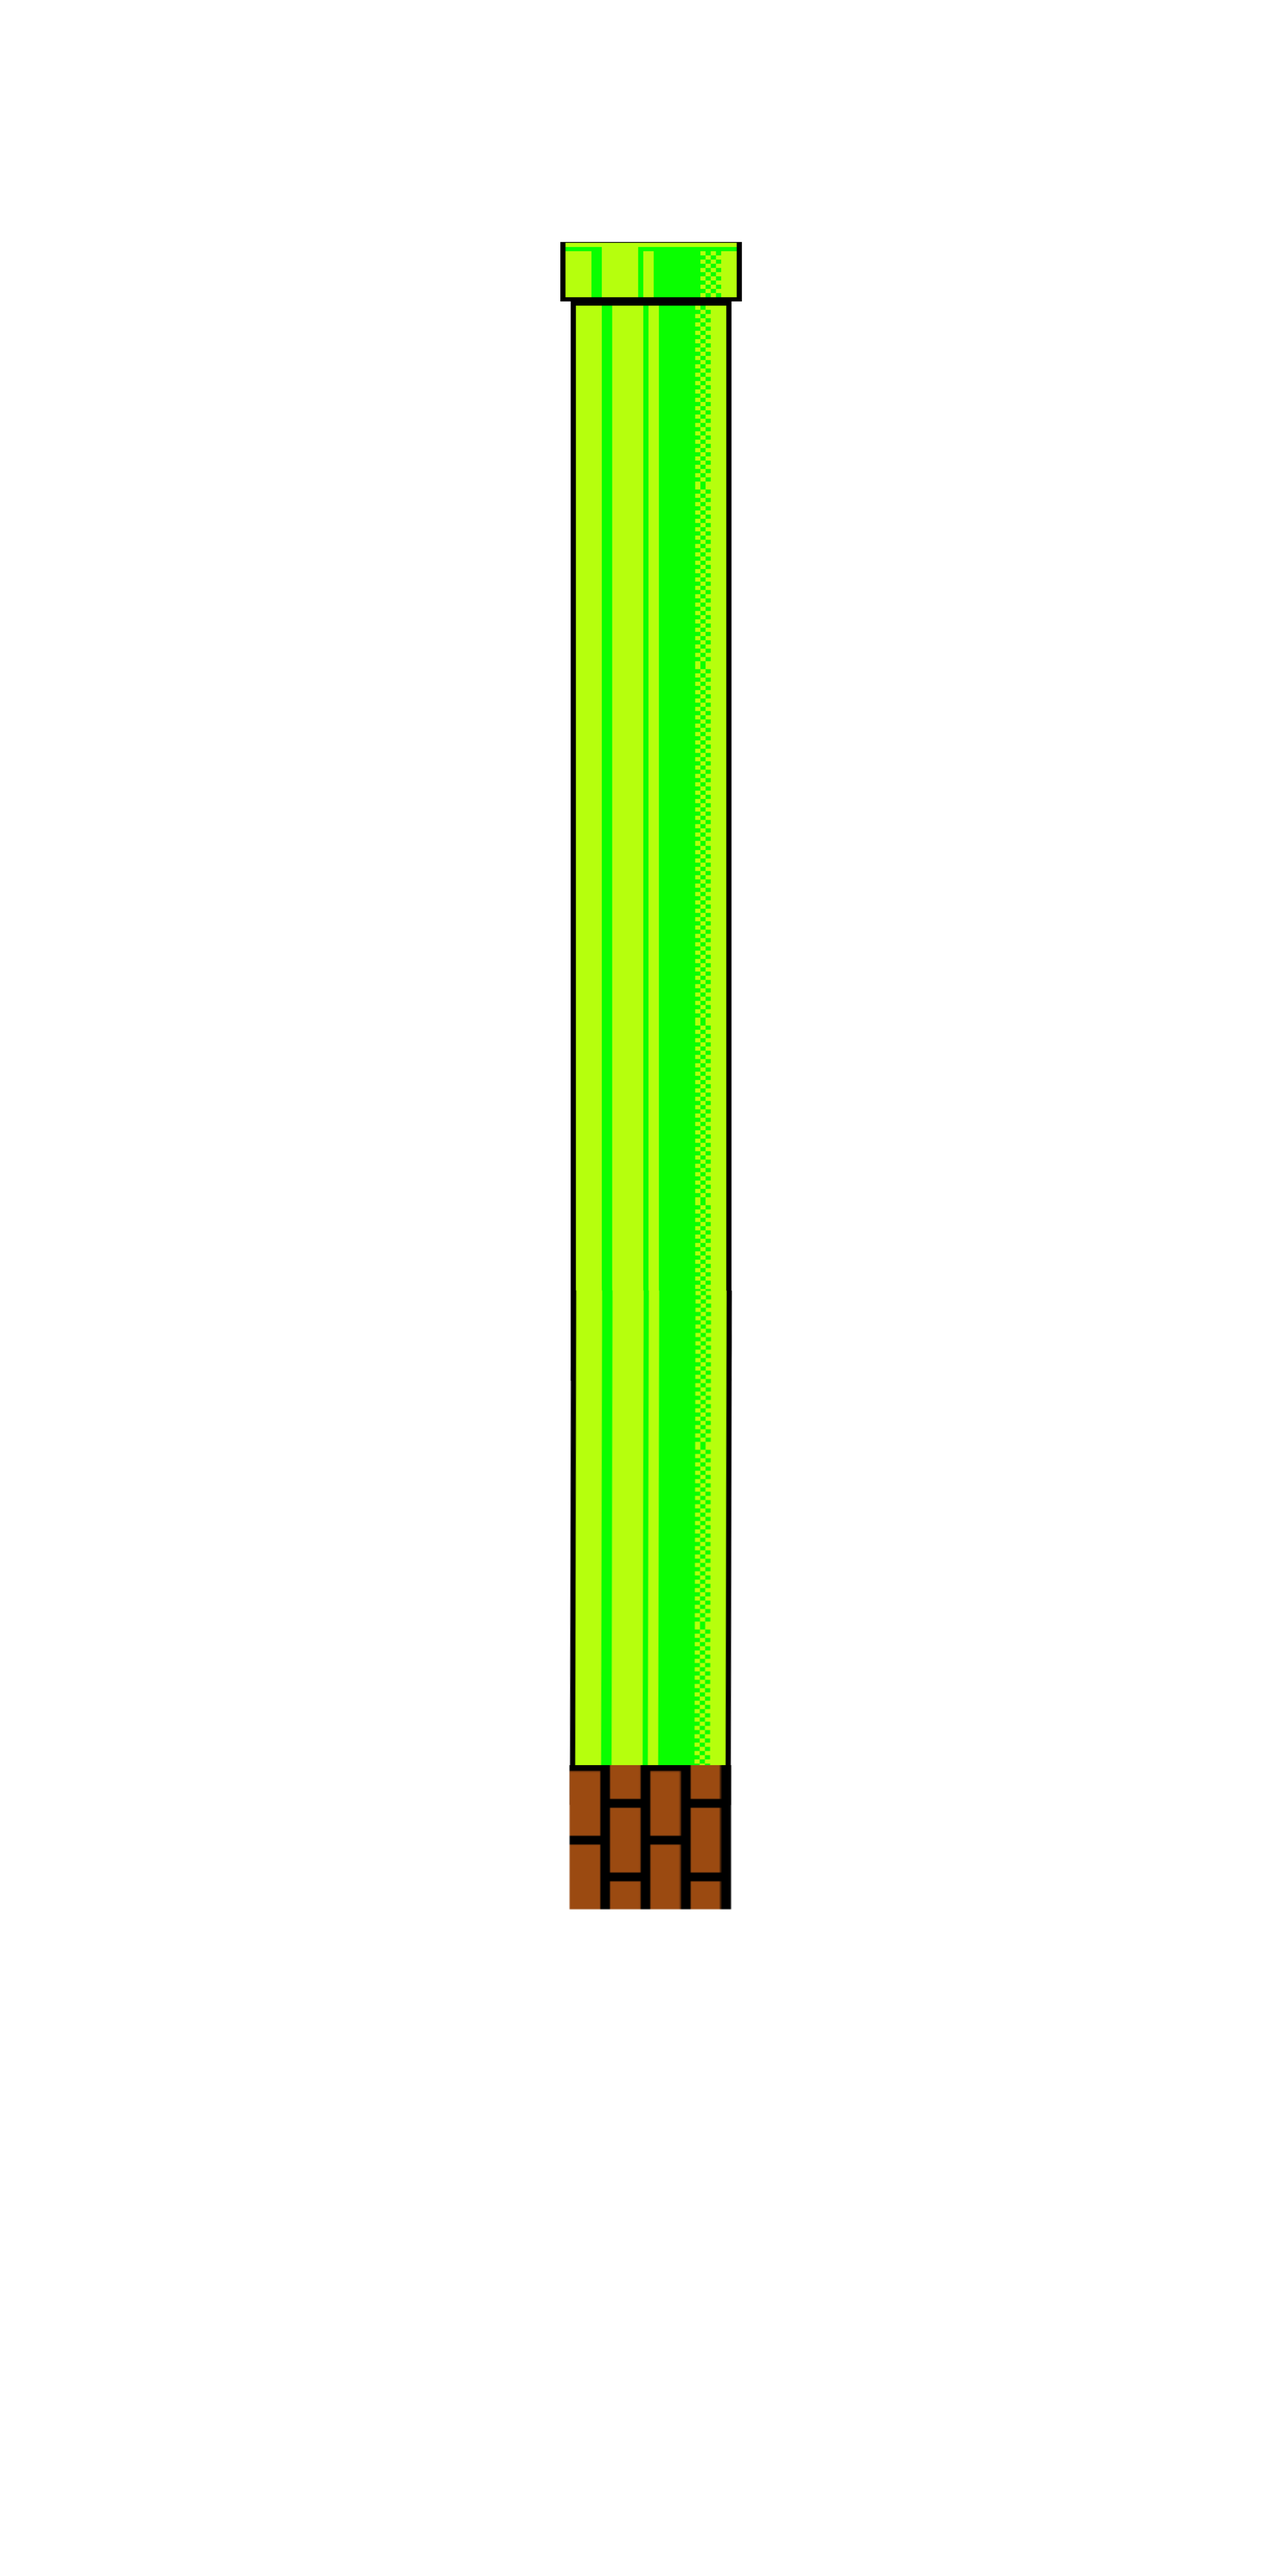
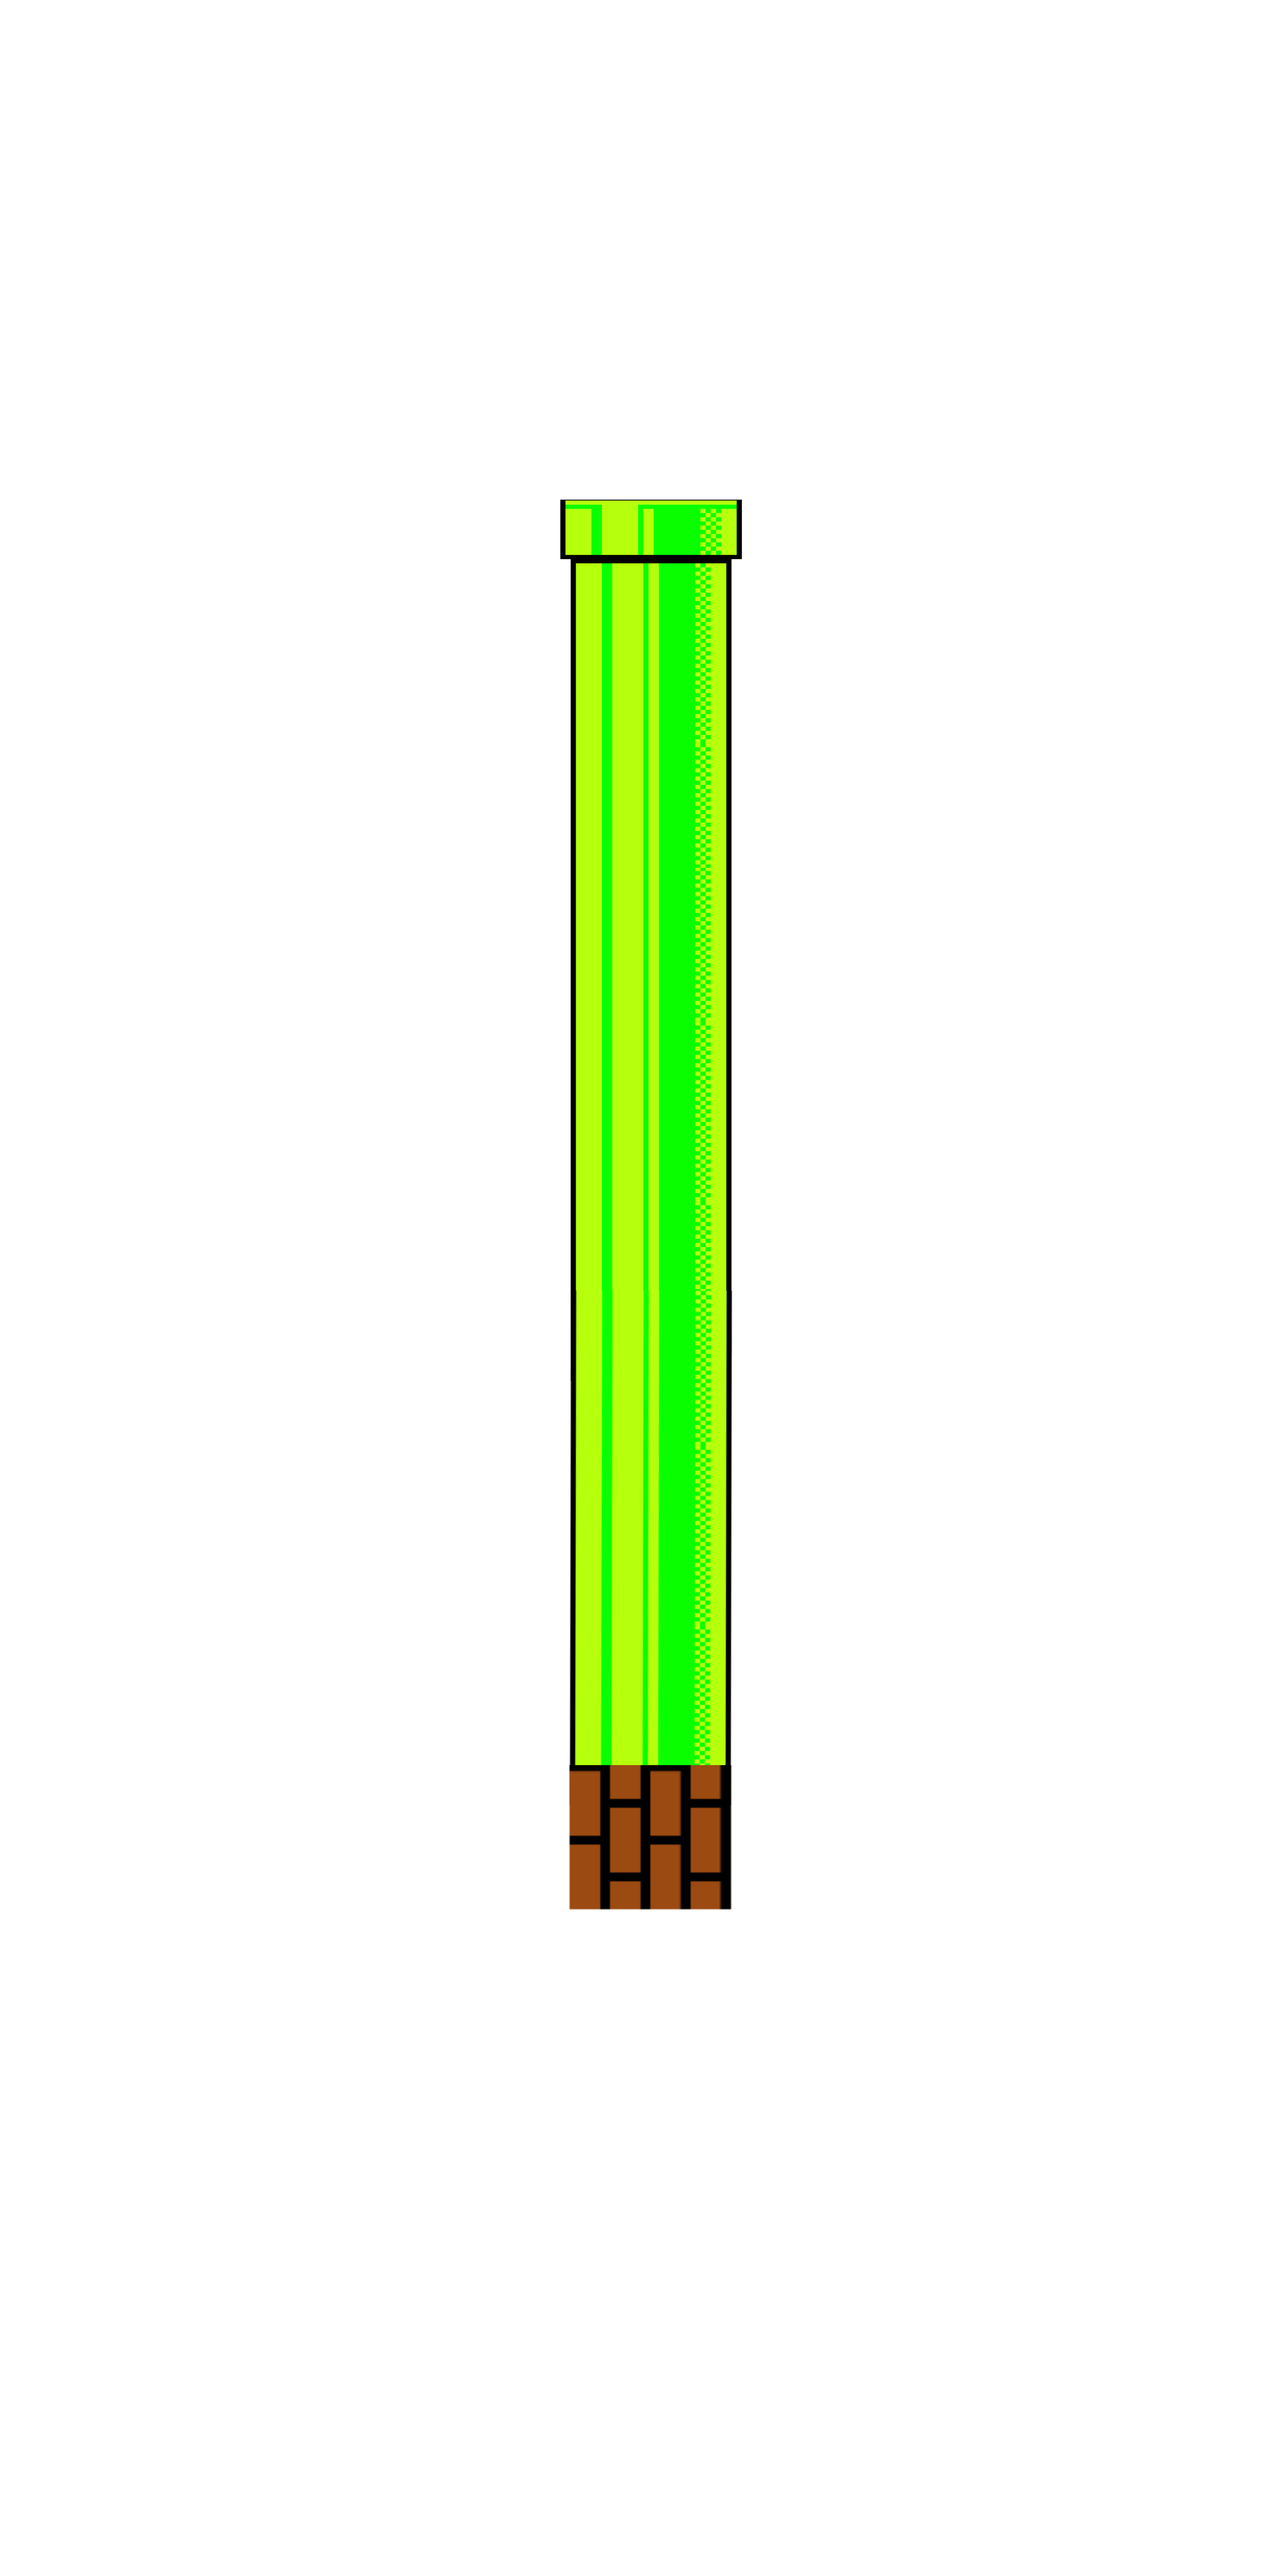
schaal is nu helemaal goed met de hitboxen

Changed region(s): [[0.4364, 0.0934, 0.5922, 0.3425]]

diff --git a/Eindopdracht/src/PinballFrame.java b/Eindopdracht/src/PinballFrame.java
@@ -19,23 +19,23 @@ public class PinballFrame {
         //side borders
         //left
         //bottom
-        createBodyAndGameObject(4, 30, new Vector2(-40, 39.8), "FrameImages/brickSideMediumLeft.png", new Vector2(-210, 150), 0.012);
+        createBodyAndGameObject(4, 30, new Vector2(-37.5, 41), "FrameImages/brickSideMediumLeft.png", new Vector2(-210, 150), 0.012);
 
         //bottom borders
         //left part 1
-        Body leftBottomBody = createBodyAndGameObject(25, 2.8, new Vector2(-28.5, 30), "FrameImages/sidePipePinballLeft.png", new Vector2(-290, 2.5), 0.012);
+        Body leftBottomBody = createBodyAndGameObject(25, 2.8, new Vector2(-28.5, 30), "FrameImages/sidePipePinballLeft.png", new Vector2(-290, 25), 0.012);
         leftBottomBody.rotate(0.4, new Vector2(-27.5, 30));
         //left part 2
-        Body leftBottomBody2 = createBodyAndGameObject(10, 2.8, new Vector2(-45, 30), "FrameImages/pipeSectionPinball.png", new Vector2(900, 2.5), 0.012);
+        Body leftBottomBody2 = createBodyAndGameObject(10, 2.8, new Vector2(-45, 30), "FrameImages/pipeSectionPinball.png", new Vector2(900, 25), 0.012);
         leftBottomBody2.rotate(0.4, new Vector2(-27.5, 30));
         //right
-        Body rightBottomBody = createBodyAndGameObject(25, 2.8, new Vector2(28.5, 30), "FrameImages/sidePipePinballRight.png", new Vector2(80, -2.5), 0.012);
+        Body rightBottomBody = createBodyAndGameObject(25, 2.8, new Vector2(28.5, 30), "FrameImages/sidePipePinballRight.png", new Vector2(0, -25), 0.012);
         rightBottomBody.rotate(-0.4, new Vector2(27.5, 30));
 
         //side borders
         //left
         //middle
-        createBodyAndGameObject(4, 40, new Vector2(-37.5, -10), "FrameImages/brickAndPipe.png", new Vector2(-4.2, 500), 0.012);
+        createBodyAndGameObject(4, 40, new Vector2(-37.5, -10), "FrameImages/brickAndPipe.png", new Vector2(-30, 200), 0.012);
         //top
         createBodyAndGameObject(4, 10, new Vector2(-37.5, -45.5), "FrameImages/brickSideLeftSmall.png", new Vector2(-225, -50), 0.012);
 
